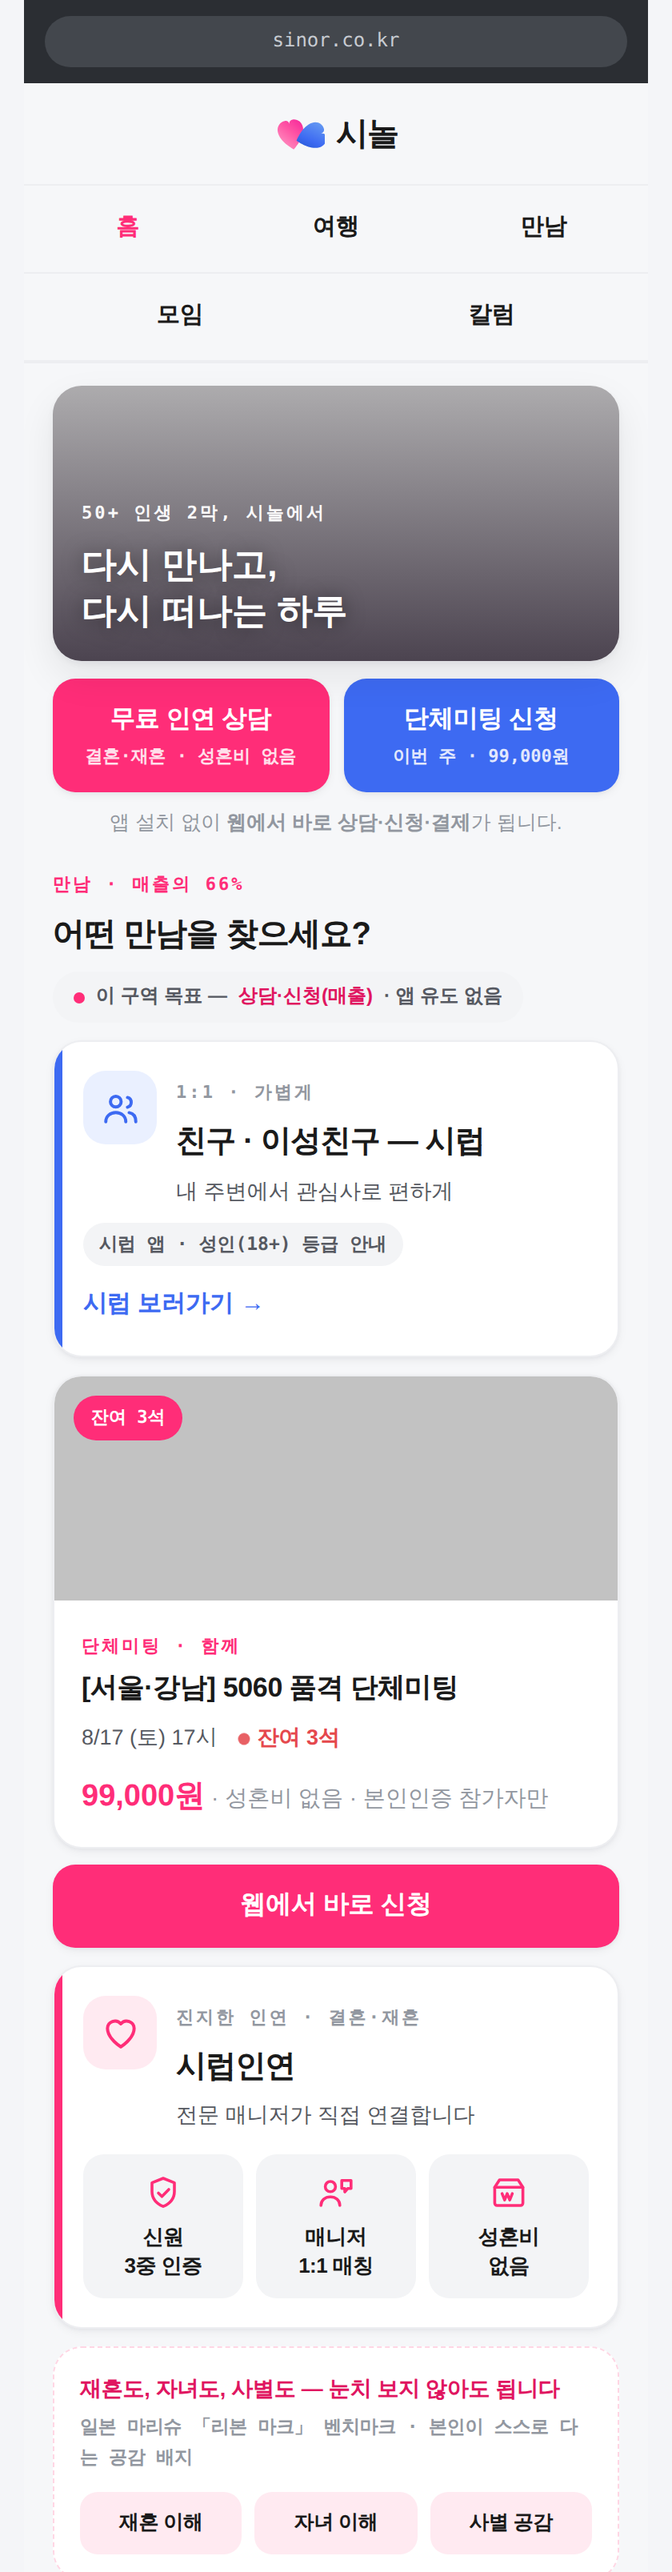
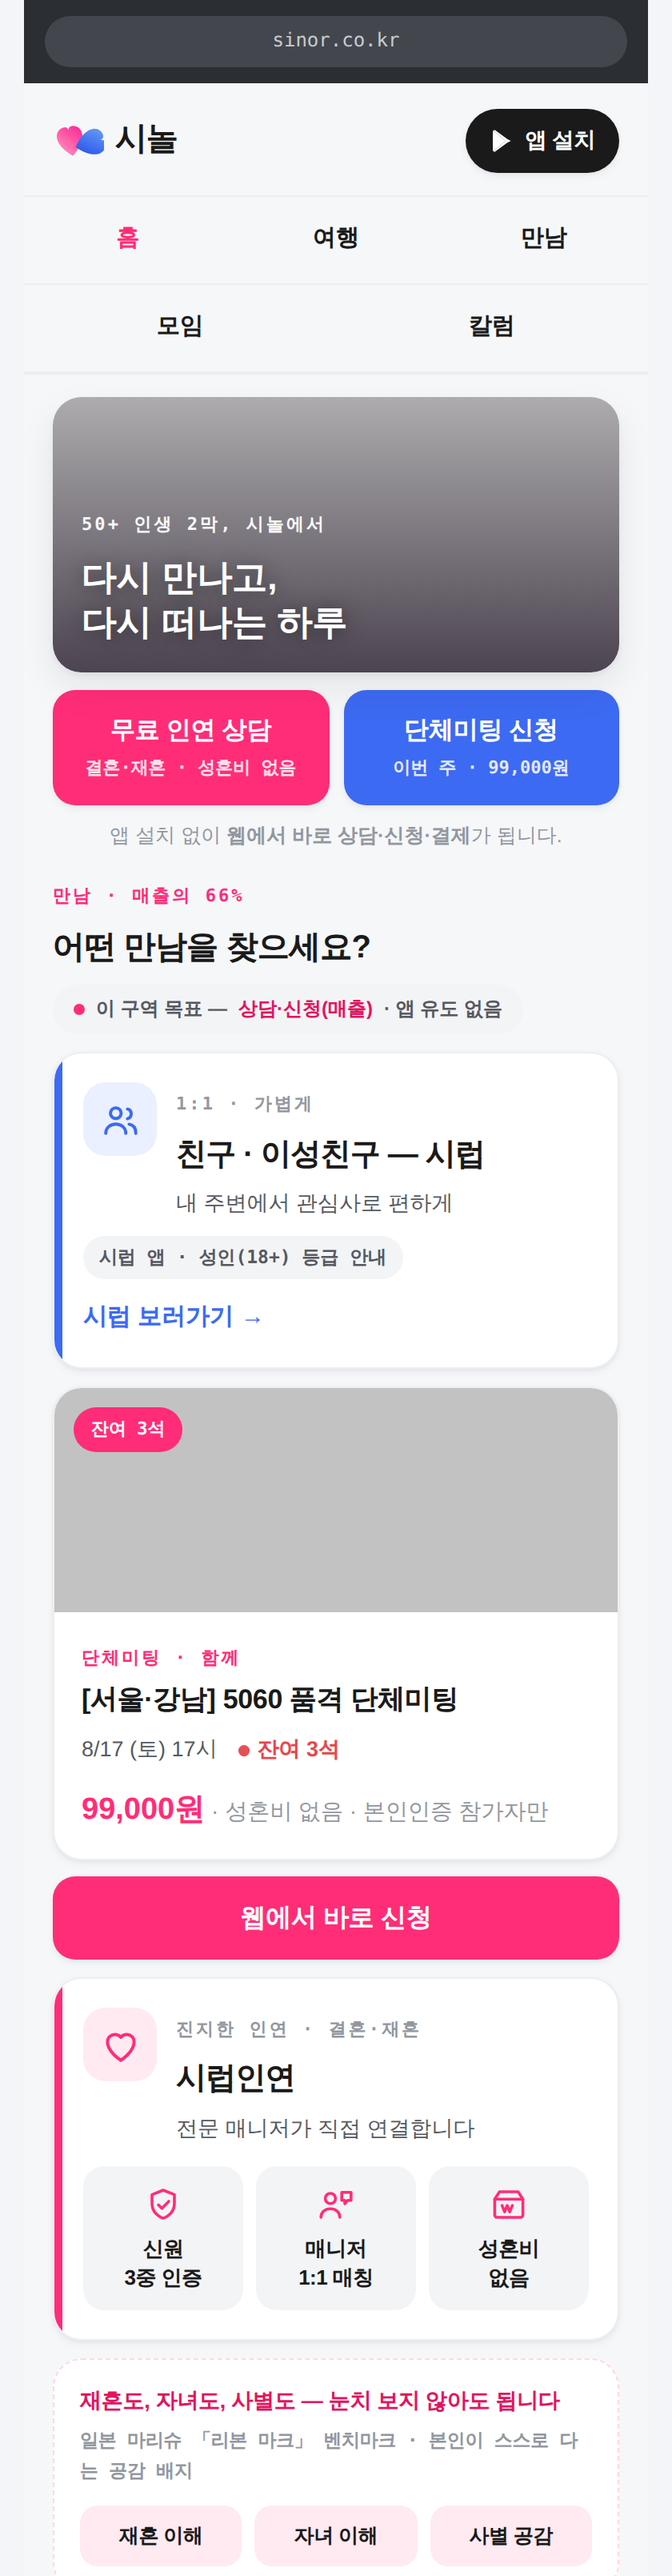
Cowork 프롬프트 갱신: 앱다운로드 CTA(2순위, 헤더칩+스크롤 고정바) 확정사항 추가 · 웹 캡처 갱신
Claude-Session: https://claude.ai/code/session_01CFjtpVsf6LGtspHar3kkuq

diff --git a/docs/prompts/코워크_문서정합_재작업_20260808.md b/docs/prompts/코워크_문서정합_재작업_20260808.md
@@ -33,6 +33,7 @@
 3. **페이지별 단일 목표**를 화면에 "목표 배지"로 명시한다: 만남·여행=매출(앱 유도 없음) / 모임·칼럼=앱 설치 / 자녀 타깃=공유.
 4. **만남 = 1:1(시럽)·단체미팅·시럽인연(결혼·재혼)** 3분기 + **공감 배지**(일본 마리슈 「리본 마크」 벤치마크: 재혼 이해·자녀 이해·사별 공감 — 본인이 스스로 다는 신호).
 5. **칼럼 명칭 유지.** 후기(우리들의 이야기)는 별도 메뉴로 만들지 않고 **만남 블록 직후 사회적 증거**로 배치(성혼·매칭 후기 → 상담 전환에 기여). 칼럼 섹션은 시니어칼럼 191편(검색 엔진, 글 하단 전환 카드).
+6. **앱 다운로드 = 성공지표 2순위 CTA.** 상담·결제 인라인은 건드리지 않되, 앱 다운로드를 항상 닿게 한다 — **① 상단 헤더 우측 '앱 설치' 칩(상시)** + **② 스크롤 시 폰 하단 고정 다운로드 바**(웹 요구서 §6.1 하단 고정 설치 바, 닫기 가능). 만남 상담·여행 결제 흐름에는 인라인 앱 유도를 넣지 않는다.
 
 ---
 
@@ -53,6 +54,7 @@
 - [ ] **§5 페이지별 단일 목표**: 그대로 유지하되, 화면에 "목표 배지"로 시각화됨을 반영. 만남·여행=앱 유도 없음 재확인.
 - [ ] **메뉴**: 홈·여행·만남·모임·**칼럼**(스토리로 개명하지 않음). 후기는 만남 블록에 사회적 증거로 배치.
 - [ ] 만남에 **공감 배지**(마리슈) 추가. 시럽 유도는 /silove 내부 + 18+ 병기.
+- [ ] **§6.1 앱 설치 동선**: 상단 헤더 '앱 설치' 칩 + 스크롤 하단 고정 바를 성공지표 2순위 CTA로 명시(상담·결제 흐름 침범 금지).
 - [ ] iOS 앱 ID 미확인 표기.
 
 ### ③ 개발자 작업 프롬프트 (md) — CC + Codex
